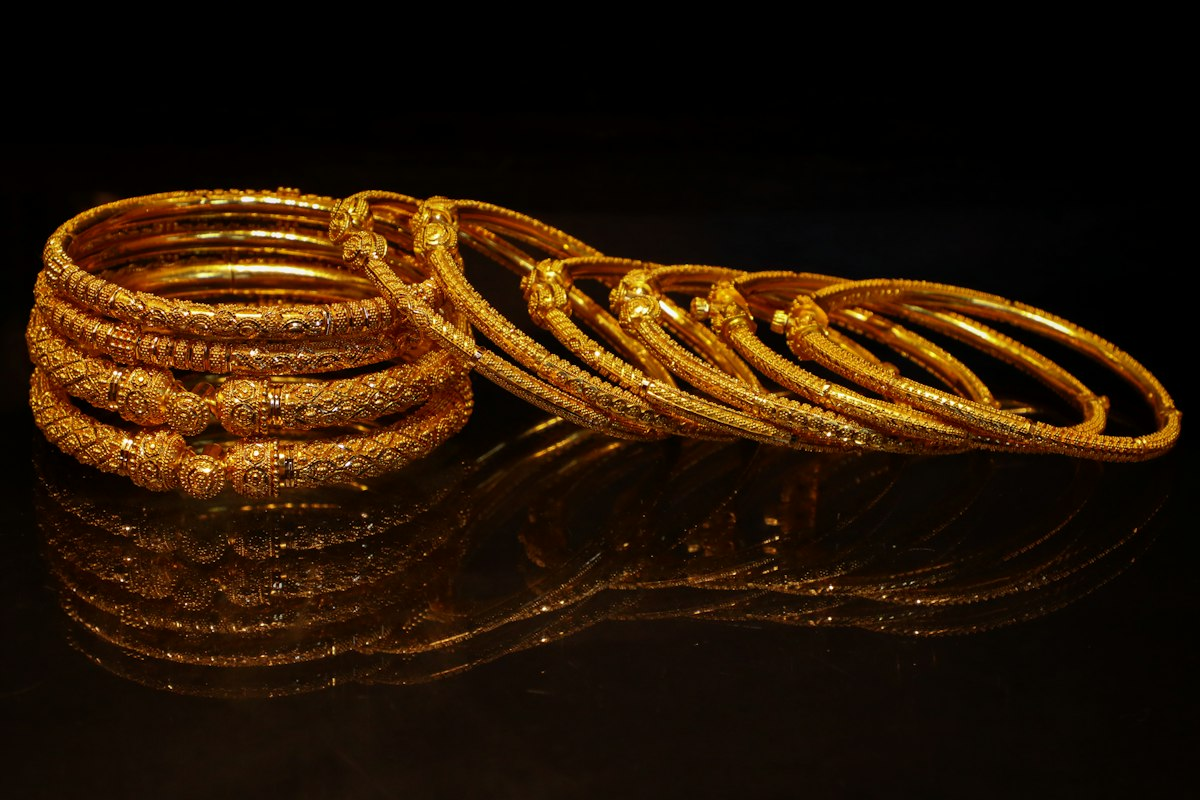
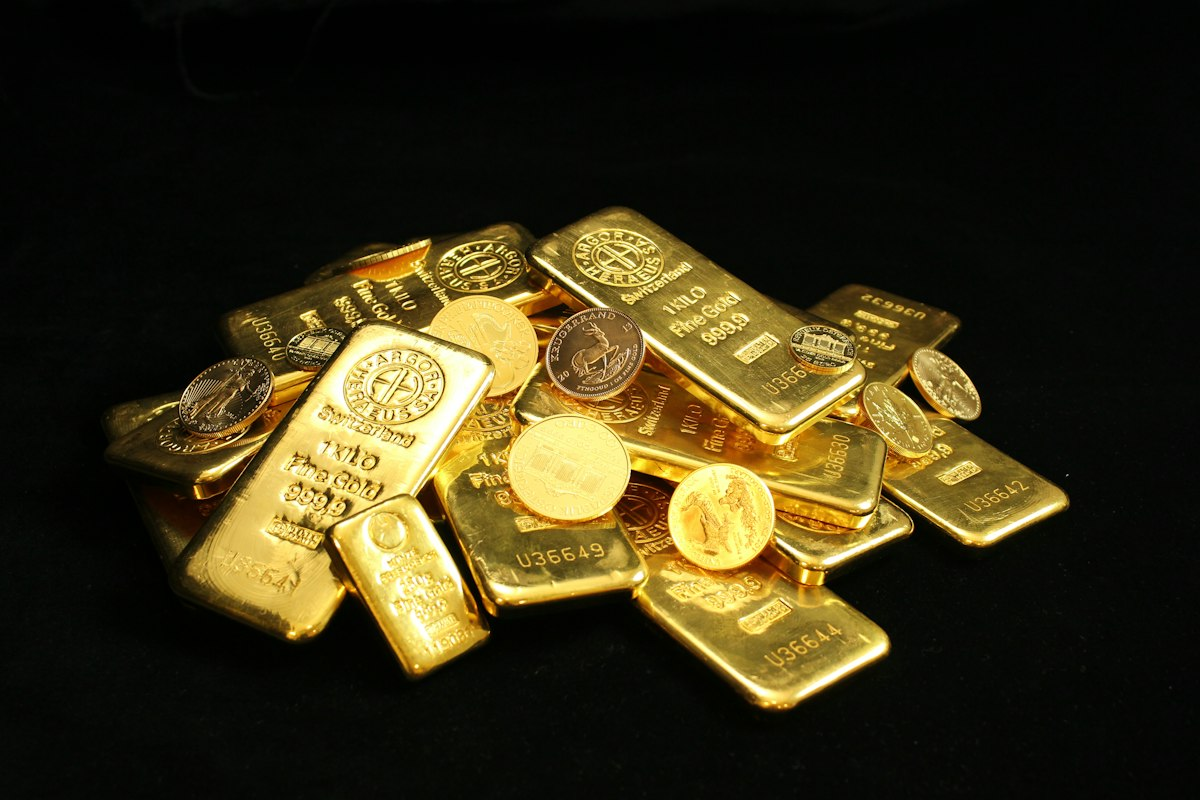
Gold guide card: bars and coins of different shapes, not bangles
Free Unsplash licence, credit updated in images/guides/CREDITS.md.

diff --git a/images/guides/CREDITS.md b/images/guides/CREDITS.md
@@ -6,7 +6,7 @@ used anywhere else on the site.
 | File | Source | Photographer | Licence |
 | --- | --- | --- | --- |
 | `pawnbroking.jpg` | [Unsplash `rMYhy7YFc9g`](https://unsplash.com/photos/rMYhy7YFc9g) | Spencer Liao ([@spencerliao](https://unsplash.com/@spencerliao)) | [Unsplash License](https://unsplash.com/license) |
-| `types-of-gold.jpg` | [Unsplash `wreS7kv_tLE`](https://unsplash.com/photos/wreS7kv_tLE) | Zayed Ahmed Zadu ([@zayed_ahmed_zadu](https://unsplash.com/@zayed_ahmed_zadu)) | [Unsplash License](https://unsplash.com/license) |
+| `types-of-gold.jpg` | [Unsplash `y7jRMXOz7pE`](https://unsplash.com/photos/y7jRMXOz7pE) | Zlaťáky.cz ([@zlataky](https://unsplash.com/@zlataky)) | [Unsplash License](https://unsplash.com/license) |
 
 Both checked as free Unsplash photos (not Unsplash+). The licence permits
 commercial use without attribution; credits are kept so the client can
